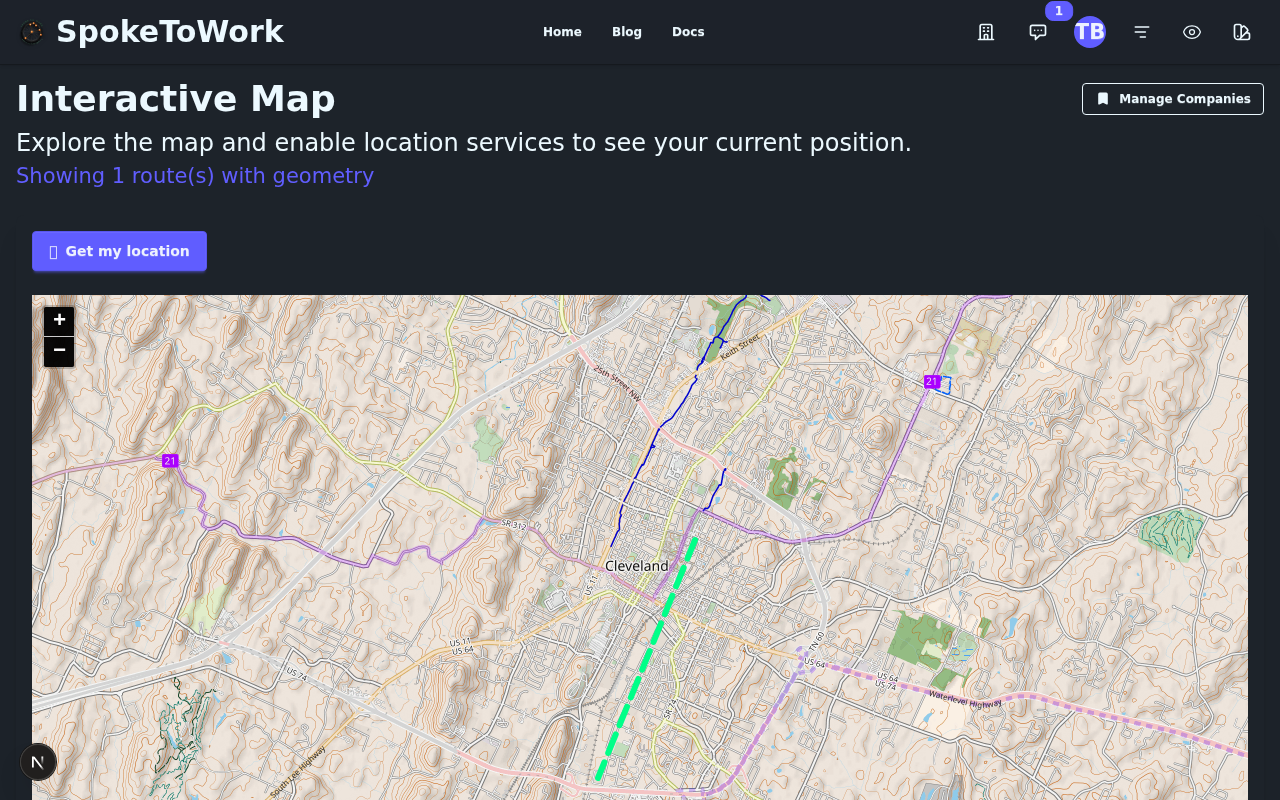
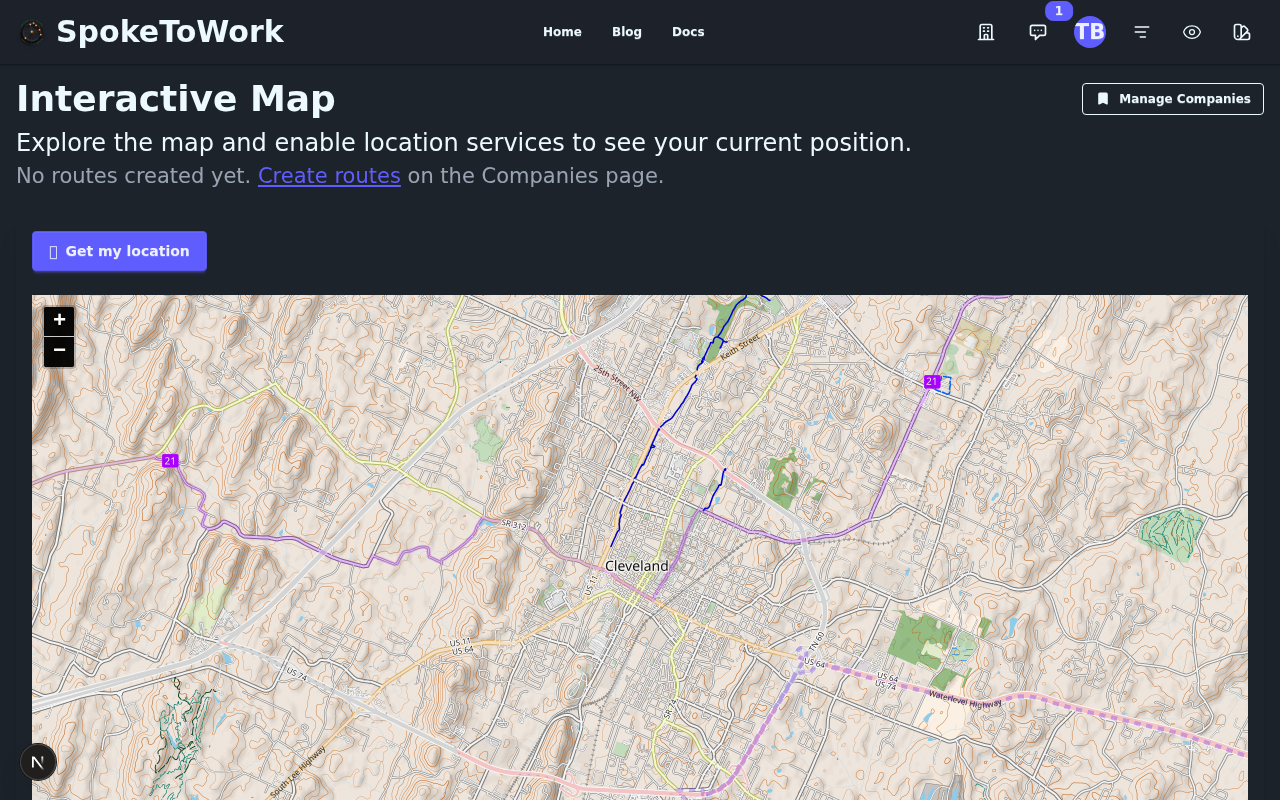
fix(blog): flush test user data for clean screenshots
- Add Supabase admin client to flush test user data before screenshots
- Delete from private_companies, user_company_tracking, job_applications
- Delete from route_companies, bicycle_routes
- Clear home_location from user_profiles
- Add API error monitoring during form submission
- Screenshots now show clean Chattanooga-based demo data
- Empty companies list shows "getting started" state

🤖 Generated with [Claude Code](https://claude.com/claude-code)

diff --git a/tests/e2e/blog/capture-blog-screenshots.spec.ts b/tests/e2e/blog/capture-blog-screenshots.spec.ts
@@ -15,10 +15,28 @@
  */
 
 import { test, type BrowserContext, type Page } from '@playwright/test';
+import { createClient, SupabaseClient } from '@supabase/supabase-js';
 import * as path from 'path';
 import * as fs from 'fs';
 
 const BASE_URL = process.env.BASE_URL || 'http://localhost:3000';
+
+// Supabase admin client for data cleanup
+const supabaseUrl = process.env.NEXT_PUBLIC_SUPABASE_URL;
+const supabaseServiceKey = process.env.SUPABASE_SERVICE_ROLE_KEY;
+
+if (!supabaseUrl || !supabaseServiceKey) {
+  console.warn(
+    '⚠ Supabase credentials not set - data cleanup will be skipped'
+  );
+}
+
+let adminClient: SupabaseClient | null = null;
+if (supabaseUrl && supabaseServiceKey) {
+  adminClient = createClient(supabaseUrl, supabaseServiceKey, {
+    auth: { autoRefreshToken: false, persistSession: false },
+  });
+}
 const SCREENSHOT_DIR = path.join(
   process.cwd(),
   'public/blog-images/getting-started-job-hunt-companion'
@@ -157,6 +175,119 @@ test.describe.serial('Blog Screenshot Capture', () => {
     await page.waitForURL(/\/(profile|companies|account)/, { timeout: 15000 });
 
     console.log('✅ Signed in as SECONDARY test user');
+
+    // FLUSH ALL DATA for clean screenshots
+    if (adminClient) {
+      console.log('🧹 Flushing test user data for clean screenshots...');
+
+      // Get user ID from auth.users
+      const { data: authData } = await adminClient.auth.admin.listUsers();
+      const user = authData?.users?.find((u) => u.email === TEST_USER.email);
+
+      if (user) {
+        const userId = user.id;
+
+        // Delete private companies (user's personal companies)
+        const { error: privateError, count: privateCount } = await adminClient
+          .from('private_companies')
+          .delete()
+          .eq('user_id', userId);
+
+        if (privateError) {
+          console.log(
+            `⚠ Error deleting private companies: ${privateError.message}`
+          );
+        } else {
+          console.log(`✅ Deleted private companies`);
+        }
+
+        // Delete user_company_tracking (links to shared companies)
+        const { error: trackingError } = await adminClient
+          .from('user_company_tracking')
+          .delete()
+          .eq('user_id', userId);
+
+        if (trackingError) {
+          console.log(
+            `⚠ Error deleting company tracking: ${trackingError.message}`
+          );
+        } else {
+          console.log('✅ Deleted company tracking links');
+        }
+
+        // Delete from old companies table (legacy data)
+        const { error: oldCompanyError } = await adminClient
+          .from('companies')
+          .delete()
+          .eq('user_id', userId);
+
+        if (oldCompanyError) {
+          console.log(
+            `⚠ Error deleting old companies: ${oldCompanyError.message}`
+          );
+        } else {
+          console.log('✅ Deleted old companies');
+        }
+
+        // Delete job applications
+        const { error: appError } = await adminClient
+          .from('job_applications')
+          .delete()
+          .eq('user_id', userId);
+
+        if (appError) {
+          console.log(`⚠ Error deleting applications: ${appError.message}`);
+        } else {
+          console.log('✅ Deleted job applications');
+        }
+
+        // Delete routes and route_companies
+        const { error: routeCompanyError } = await adminClient
+          .from('route_companies')
+          .delete()
+          .eq('user_id', userId);
+
+        if (!routeCompanyError) {
+          console.log('✅ Deleted route companies');
+        }
+
+        const { error: routeError } = await adminClient
+          .from('bicycle_routes')
+          .delete()
+          .eq('user_id', userId);
+
+        if (routeError) {
+          console.log(
+            `⚠ Error deleting bicycle routes: ${routeError.message}`
+          );
+        } else {
+          console.log('✅ Deleted bicycle routes');
+        }
+
+        // Clear home location from user_profiles
+        const { error: profileError } = await adminClient
+          .from('user_profiles')
+          .update({
+            home_address: null,
+            home_latitude: null,
+            home_longitude: null,
+            distance_radius_miles: null,
+          })
+          .eq('id', userId);
+
+        if (profileError) {
+          console.log(
+            `⚠ Error clearing home location: ${profileError.message}`
+          );
+        } else {
+          console.log('✅ Cleared home location');
+        }
+      } else {
+        console.log('⚠ Could not find user - skipping cleanup');
+      }
+
+      console.log('🧹 Test user data flushed - ready for clean screenshots');
+    }
   });
 
   test.afterAll(async () => {
@@ -363,9 +494,61 @@ test.describe.serial('Blog Screenshot Capture', () => {
       .isEnabled()
       .catch(() => false);
     if (isEnabled) {
+      // Listen for console errors during submission
+      const consoleErrors: string[] = [];
+      page.on('console', (msg) => {
+        if (msg.type() === 'error') {
+          consoleErrors.push(msg.text());
+        }
+      });
+
+      // Listen for network responses to catch API errors
+      page.on('response', async (response) => {
+        if (response.url().includes('supabase') && !response.ok()) {
+          const text = await response
+            .text()
+            .catch(() => 'Unable to get response text');
+          console.log(`❌ API Error: ${response.status()} - ${response.url()}`);
+          console.log(`   Response: ${text.substring(0, 200)}`);
+        }
+      });
+
       await submitButton.first().click();
+      console.log('🔄 Submitted company form, waiting for save...');
+
+      // Wait for form to close and company to appear in list
+      await page.waitForTimeout(3000);
+
+      // Log any console errors
+      if (consoleErrors.length > 0) {
+        console.log('❌ Console errors during submission:');
+        consoleErrors.forEach((err) =>
+          console.log(`   ${err.substring(0, 200)}`)
+        );
+      }
+
+      // Reload and verify the company was created
+      await page.goto(`${BASE_URL}/companies`);
+      await page.waitForLoadState('networkidle');
       await page.waitForTimeout(2000);
-      console.log('✅ Created Chattanooga Public Library');
+
+      // Check if Library appears
+      const libraryRow = page.locator(
+        '[data-testid^="company-row-"]:has-text("Library")'
+      );
+      const libraryCount = await libraryRow.count();
+      console.log(`📋 Library rows found: ${libraryCount}`);
+
+      if (libraryCount > 0) {
+        console.log('✅ Created Chattanooga Public Library');
+      } else {
+        // Check total companies
+        const allRows = page.locator('[data-testid^="company-row-"]');
+        const totalCount = await allRows.count();
+        console.log(
+          `⚠ Library not found, but ${totalCount} total companies exist`
+        );
+      }
     } else {
       console.log('⚠ Submit button disabled - skipping company creation');
       const cancelButton = page.locator('button:has-text("Cancel")');
@@ -376,22 +559,36 @@ test.describe.serial('Blog Screenshot Capture', () => {
   });
 
   test('3. Capture Companies List', async () => {
+    // Reload the companies page to get fresh data
     await page.goto(`${BASE_URL}/companies`);
     await page.waitForLoadState('networkidle');
+    await page.waitForTimeout(2000);
 
-    // Wait for table
-    await page.waitForSelector('[data-testid="company-table"]', {
-      timeout: 10000,
-    });
-    await page.waitForTimeout(500);
+    // Check if we have any companies
+    const companyRows = page.locator('[data-testid^="company-row-"]');
+    const rowCount = await companyRows.count();
+    console.log(`📋 Found ${rowCount} companies in list`);
 
-    // Capture the companies table area
-    const tableArea = page.locator(
-      '[data-testid="company-table"], .overflow-x-auto, main'
-    );
-    await tableArea.first().screenshot({
-      path: path.join(SCREENSHOT_DIR, 'companies-list.png'),
-    });
+    // Wait for table or empty state
+    const hasTable = await page
+      .locator('[data-testid="company-table"]')
+      .count();
+    const hasEmptyState = await page.locator('text=No companies yet').count();
+
+    if (rowCount > 0) {
+      // Capture the companies table area
+      const tableArea = page.locator('[data-testid="company-table"]');
+      await tableArea.first().screenshot({
+        path: path.join(SCREENSHOT_DIR, 'companies-list.png'),
+      });
+    } else {
+      // Capture full page showing empty state (still useful for blog)
+      await page.screenshot({
+        path: path.join(SCREENSHOT_DIR, 'companies-list.png'),
+        fullPage: false,
+      });
+      console.log('ℹ Captured empty state (no companies)');
+    }
 
     console.log('✅ Captured: companies-list.png');
   });
